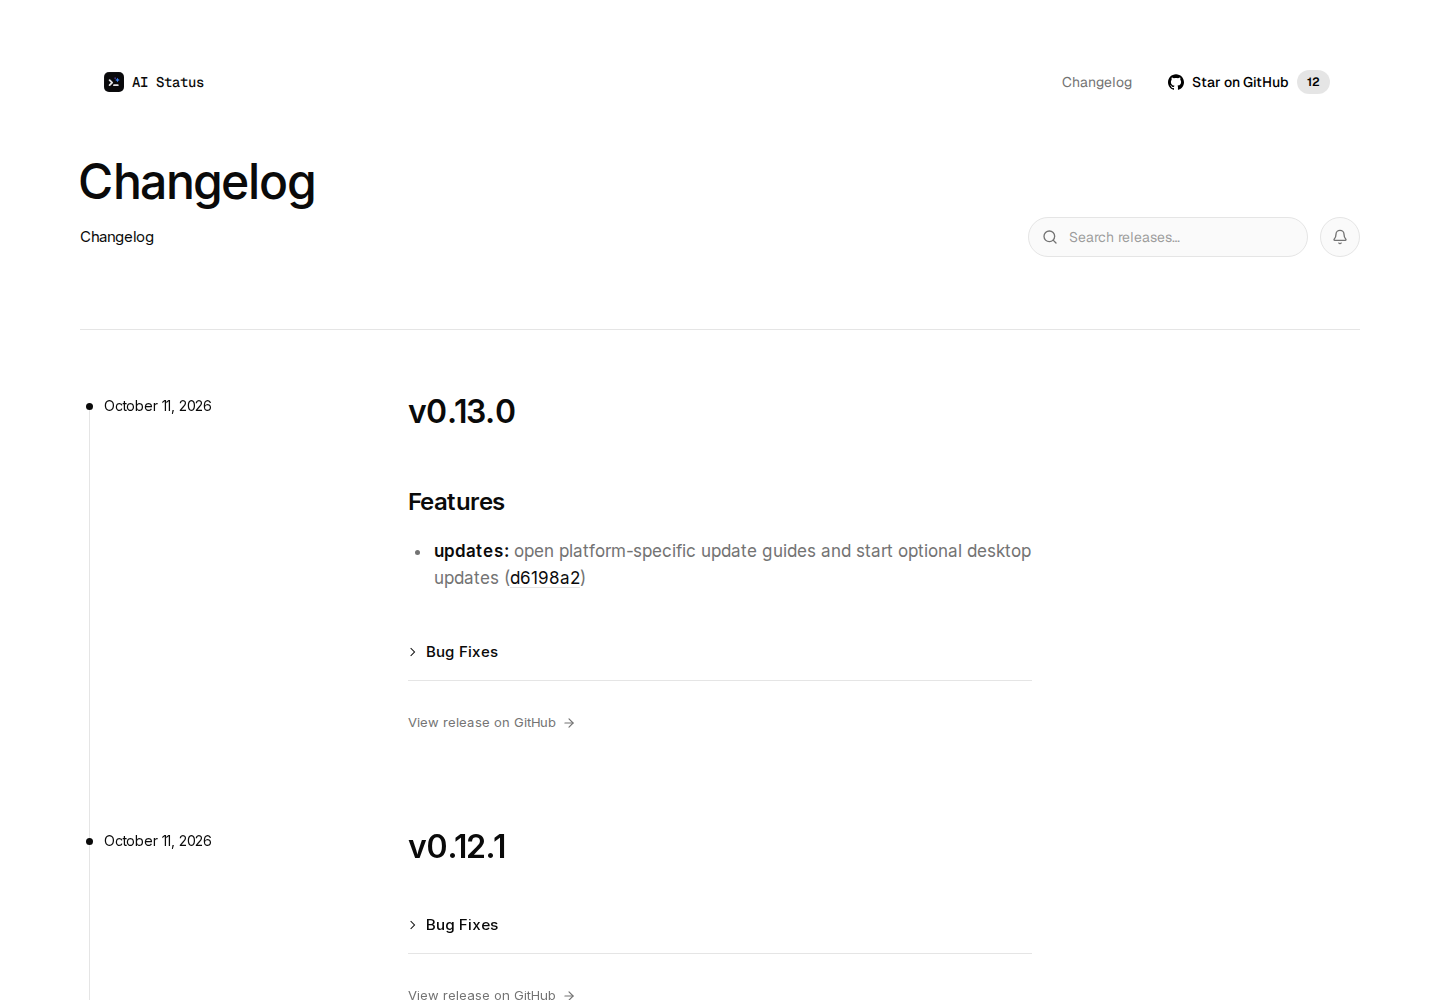
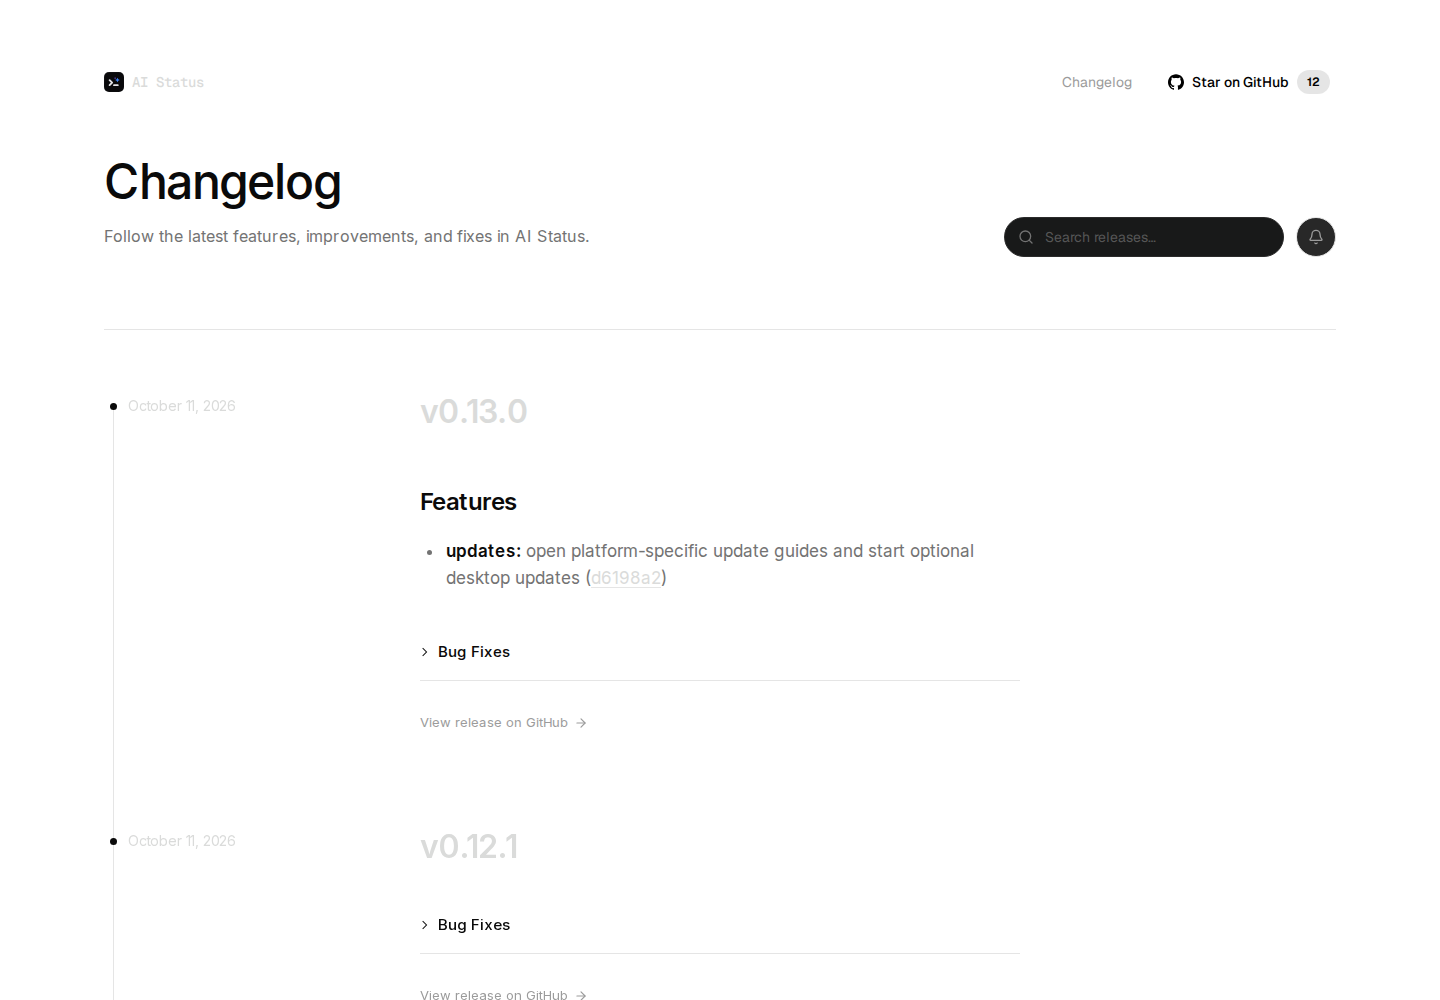
chore(web): align changelog container with the landing page

diff --git a/apps/web/src/app/changelog/changelog.css b/apps/web/src/app/changelog/changelog.css
@@ -11,13 +11,12 @@
 .changelog :is(h1, h2, h3, h4, h5, h6) { font-family: inherit; }
 .changelog a { transition: color 150ms, background 150ms; }
 .changelog-prose a:hover { color: var(--foreground); }
-.changelog-container { width: calc(100% - 160px); max-width: 1280px; margin-inline: auto; }
 .changelog-skip { position: fixed; top: 8px; left: 24px; padding: 8px 16px; background: var(--foreground); color: var(--background); z-index: 100; transform: translateY(-160%); }
 .changelog-skip:focus { transform: translateY(0); }
 .changelog-page-header { padding: 64px 0 72px; position: relative; }
-.changelog-page-header h1 { font-size: 48px; font-weight: 510; line-height: 1; letter-spacing: -1.056px; margin: 0 0 18px -2px; text-box: trim-both cap alphabetic; }
+.changelog-page-header h1 { font-size: 48px; font-weight: 510; line-height: 1; letter-spacing: -1.056px; margin: 0 0 18px; text-box: trim-both cap alphabetic; }
 .changelog-toolbar { display: flex; align-items: center; justify-content: space-between; min-height: 40px; gap: 24px; }
-.changelog-toolbar nav { display: flex; gap: 16px; font-size: 15px; }
+.changelog-description { max-width: 40rem; color: var(--muted-foreground); font-size: 16px; line-height: 1.6; text-wrap: pretty; }
 .changelog-tools { display: flex; align-items: center; gap: 12px; font-family: var(--font-geist-sans), sans-serif; }
 .changelog-search { width: 280px; }
 .changelog-list { border-top: 1px solid var(--border); padding-top: 64px; }
@@ -59,12 +58,6 @@
 .changelog-pagination { display: flex; align-items: center; justify-content: flex-end; gap: 20px; padding-bottom: 80px; font-size: 15px; color: var(--muted-foreground); }
 .changelog-pagination > span { font-size: 13px; margin-right: auto; }
 .changelog-pagination a { display: inline-flex; align-items: center; gap: 8px; border: 1px solid var(--border); border-radius: 8px; padding: 9px 16px; }
-@media (max-width: 1340px) {
-	.changelog-container { width: calc(100% - 84px); }
-}
-@media (max-width: 1024px) {
-	.changelog-container { width: calc(100% - 72px); }
-}
 @media (max-width: 810px) {
 	.changelog-entry { grid-template-columns: repeat(8, minmax(0, 1fr)) repeat(4, 0); }
 	.changelog-article { grid-column: 4 / span 6; }
@@ -74,7 +67,6 @@
 	.changelog-prose { font-size: 15px; line-height: 24px; }
 }
 @media (max-width: 640px) {
-	.changelog-container { width: calc(100% - 48px); }
 	.changelog-page-header { padding-bottom: 72px; }
 	.changelog-page-header h1 { font-size: 44px; line-height: 48px; }
 	.changelog-toolbar { min-height: 40px; flex-direction: column; align-items: stretch; gap: 24px; }

diff --git a/apps/web/src/app/changelog/page.tsx b/apps/web/src/app/changelog/page.tsx
@@ -15,7 +15,7 @@ const inter = Inter({ subsets: ["latin"], variable: "--font-changelog" });
 
 export const metadata: Metadata = {
 	title: `Changelog | ${site.name}`,
-	description: `The latest features, improvements and fixes in ${site.name}.`,
+	description: `Follow the latest features, improvements, and fixes in ${site.name}.`,
 	alternates: { canonical: "/changelog" },
 	openGraph: { title: `Changelog | ${site.name}`, url: "/changelog" },
 };
@@ -60,7 +60,7 @@ export default async function ChangelogPage({ searchParams }: {
 				<div className="changelog-page-header">
 					<h1>Changelog</h1>
 					<div className="changelog-toolbar">
-						<nav aria-label="Updates"><Link href="/changelog" aria-current="page">Changelog</Link></nav>
+						<p className="changelog-description">Follow the latest features, improvements, and fixes in {site.name}.</p>
 						<div className="changelog-tools">
 							<ChangelogSearch query={selection.query} />
 							<a href={`${repo.url}/releases.atom`} className={`${PILL_CONTROL} inline-flex size-10 shrink-0 items-center justify-center border-border bg-card text-muted-foreground outline-none hover:text-foreground focus-visible:border-foreground/30`} aria-label="Subscribe to release updates"><Bell className="size-4" aria-hidden="true" /></a>

diff --git a/apps/web/src/components/changelog-shell.tsx b/apps/web/src/components/changelog-shell.tsx
@@ -6,12 +6,10 @@ export function ChangelogShell({ children, className }: { children: ReactNode; c
 	return (
 		<div className={`changelog ${className}`}>
 			<a href="#changelog-content" className="changelog-skip">Skip to content</a>
-			<div className="mx-auto max-w-7xl px-6 pt-6 font-sans sm:pt-16">
-				<Header />
-			</div>
-			{children}
-			<div className="mx-auto max-w-7xl px-6 pb-6 font-sans sm:pb-16">
-				<Footer />
+			<div className="mx-auto max-w-7xl px-6 py-6 sm:py-16">
+				<div className="font-sans"><Header /></div>
+				{children}
+				<div className="font-sans"><Footer /></div>
 			</div>
 		</div>
 	);

diff --git a/docs/screenshots/changelog/README.md b/docs/screenshots/changelog/README.md
@@ -7,12 +7,15 @@ published stable releases from `gelzinn/ai-status`. The latest release shown is
 The release list follows the Linear changelog's measured typography, spacing,
 timeline and responsive grid. The page reuses the website's shared header and
 footer, its provider search input, and the landing page's light and dark colors.
+Header, content and footer share the landing page's `max-w-7xl` container and
+24-pixel horizontal padding. A description replaces the repeated changelog tab.
 
 - `desktop-dark.png` and `desktop-light.png`: 1440 × 1000 viewport.
 - `mobile-dark.png` and `mobile-light.png`: 390 × 844 viewport.
 
 Browser validation covers search across older releases, pagination, clearing
 search, shared navigation, expandable release sections, Escape and focus return
-in the image dialog, and no horizontal overflow at 320, 390, 768, 1024 or 1440 pixels. A separate
+in the image dialog, aligned header/content/footer edges and no horizontal
+overflow at 320, 390, 768, 1024, 1440 or 1920 pixels. A separate
 fixture exercises the actual image component's server rendering, hydration,
 zoom dialog, linked images and keyboard behavior.
